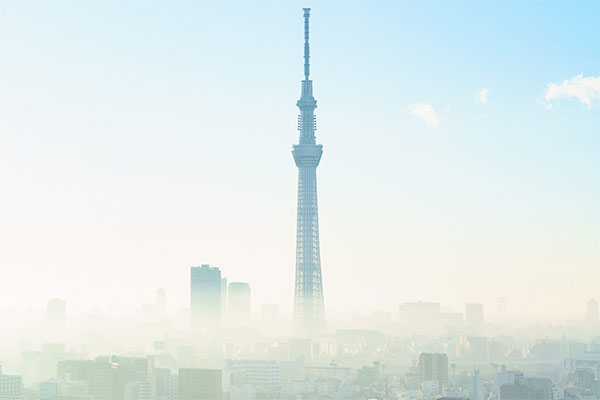
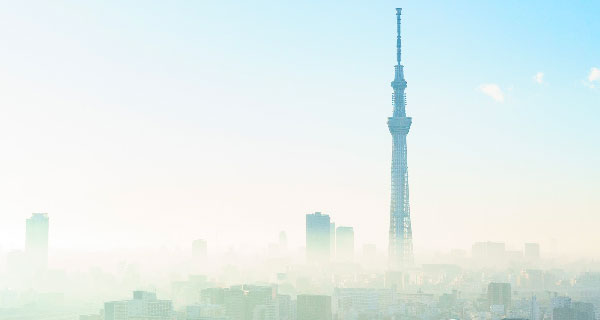
スカイツリーdemoの高さ調整

diff --git a/photo-mist/demo-jpg.html b/photo-mist/demo-jpg.html
@@ -12,7 +12,7 @@
 <div
   class="ComparisonSlider"
   data-comparison-slider-auto
-  style="width: 600px; height: 400px;"
+  style="width: 600px; height: 320px;"
 >
   <div
     class="ComparisonSlider__Before"

diff --git a/photo-mist/demo-webp.html b/photo-mist/demo-webp.html
@@ -12,7 +12,7 @@
 <div
   class="ComparisonSlider"
   data-comparison-slider-auto
-  style="width: 600px; height: 400px;"
+  style="width: 600px; height: 320px;"
 >
   <div
     class="ComparisonSlider__Before"
